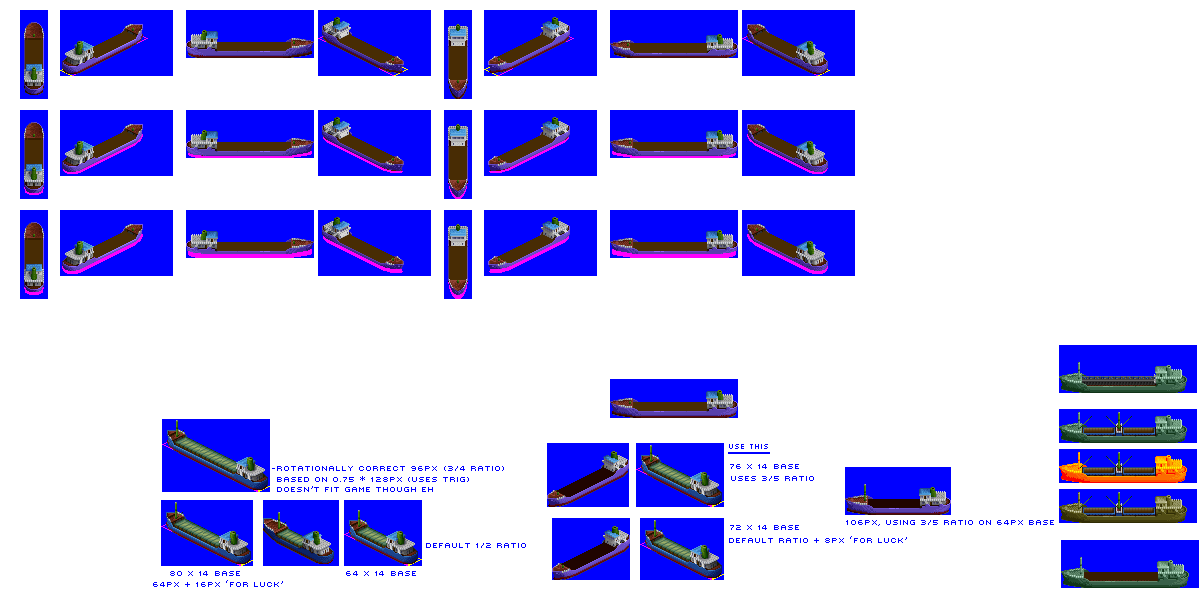
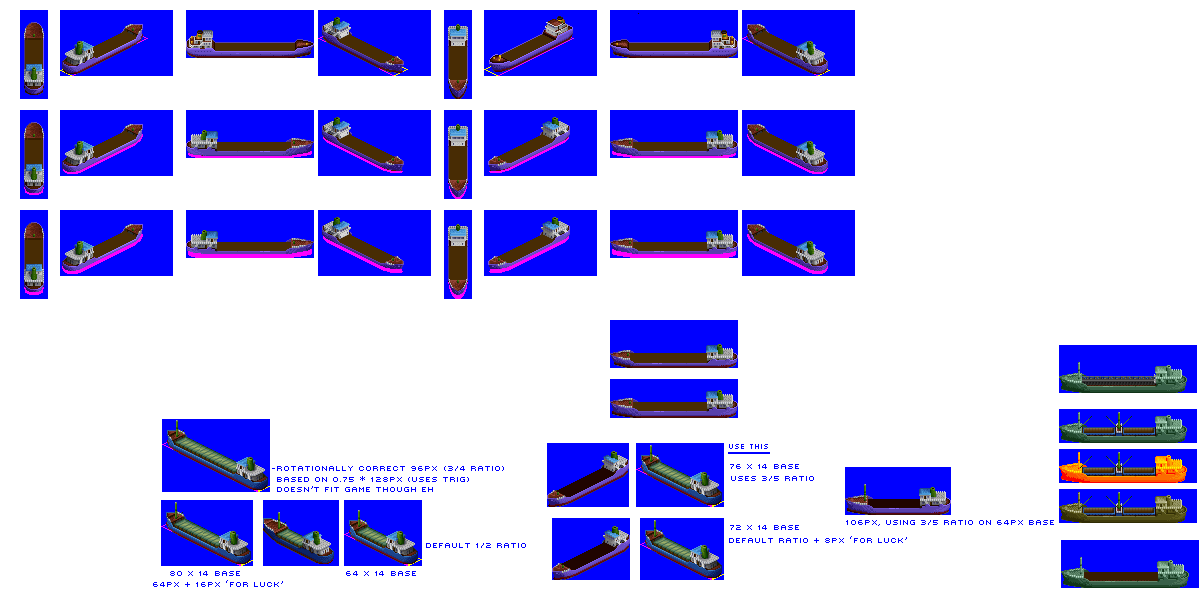
Change: WIP on 128px ship hull

diff --git a/src/vehicles/universal_freighter_F.py b/src/vehicles/universal_freighter_F.py
@@ -4,7 +4,7 @@ ship = UniversalFreighter(id='universal_freighter_F',
                           numeric_id=42,
                           name='Longstone [Freighter]',
                           subtype='F',
-                          hull='TempHouseNone',
+                          hull='ShipHouseRear',
                           fixed_run_cost_factor=3.5,
                           fuel_run_cost_factor=1.0,
                           intro_date=1870,
